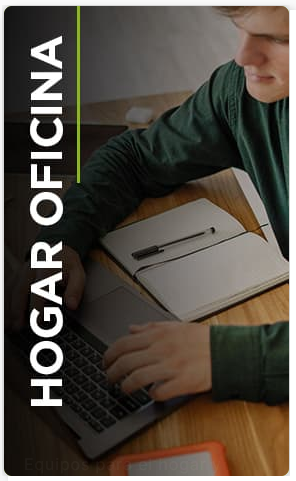
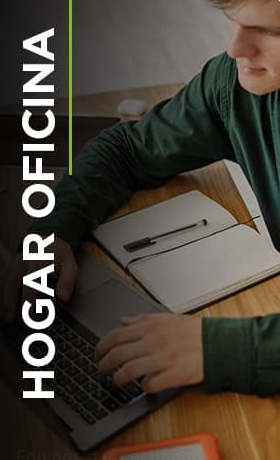
encontratuequipo

diff --git a/index.html b/index.html
@@ -78,19 +78,19 @@
         <h1>Encontra tu equipo</h1>
 </div>
 
-<div class="container-xl">
+<div id="encontratuequipo" class="container-xl">
     <div class="row">
         <div class="col-lg-3 col-md-6 col-sm-1">
-          <img src="./assets/equipo1.png" alt="procesadori9">
+          <img src="./assets/equipo1.png" alt="Notebooks">
         </div>
         <div class="col-lg-3 col-md-6 col-sm-1">
-          <img src="./assets/equipo2.png" alt="procesadori7unlocked">
+          <img src="./assets/equipo2.png" alt="Hogaroficina">
         </div>
         <div class="col-lg-3 col-md-6 col-sm-1">
-          <img src="./assets/equipo3.png" alt="procesadori710gen">
+          <img src="./assets/equipo3.png" alt="Gaming-diseño">
         </div>
         <div class="col-lg-3 col-md-6 col-sm-1">
-          <img src="./assets/equipo4.png" alt="procesadori510gen">
+          <img src="./assets/equipo4.png" alt="combos">
         </div>
     </div>
     </div>

diff --git a/css/estilos.css b/css/estilos.css
@@ -9,6 +9,9 @@
 .contenido {
   display: flex;
 }
+.contenido img {
+  border-radius: 10px;
+}
 
 /* line 15, ../PROYECTO FINAL/scss/estilos.scss */
 body {
@@ -137,6 +140,7 @@ body {
 /* line 115, ../PROYECTO FINAL/scss/estilos.scss */
 #galeria .col-lg-4 img:hover {
   border: 5px solid #f7f7f7;
+  transition: 0.5s;
 }
 
 @media all and (min-width: 980px) {
@@ -145,5 +149,17 @@ body {
     display: block;
   }
 }
+
+/*AGREGADOS */
+
+#encontratuequipo .col-lg-3 img {
+  border-radius: 10px;
+}
+
+#encontratuequipo .col-lg-3 img:hover {
+    border: 5px solid #f7f7f7;
+    transition: 0.5s;
+}
+
 
 /*# sourceMappingURL=estilos.css.map */
